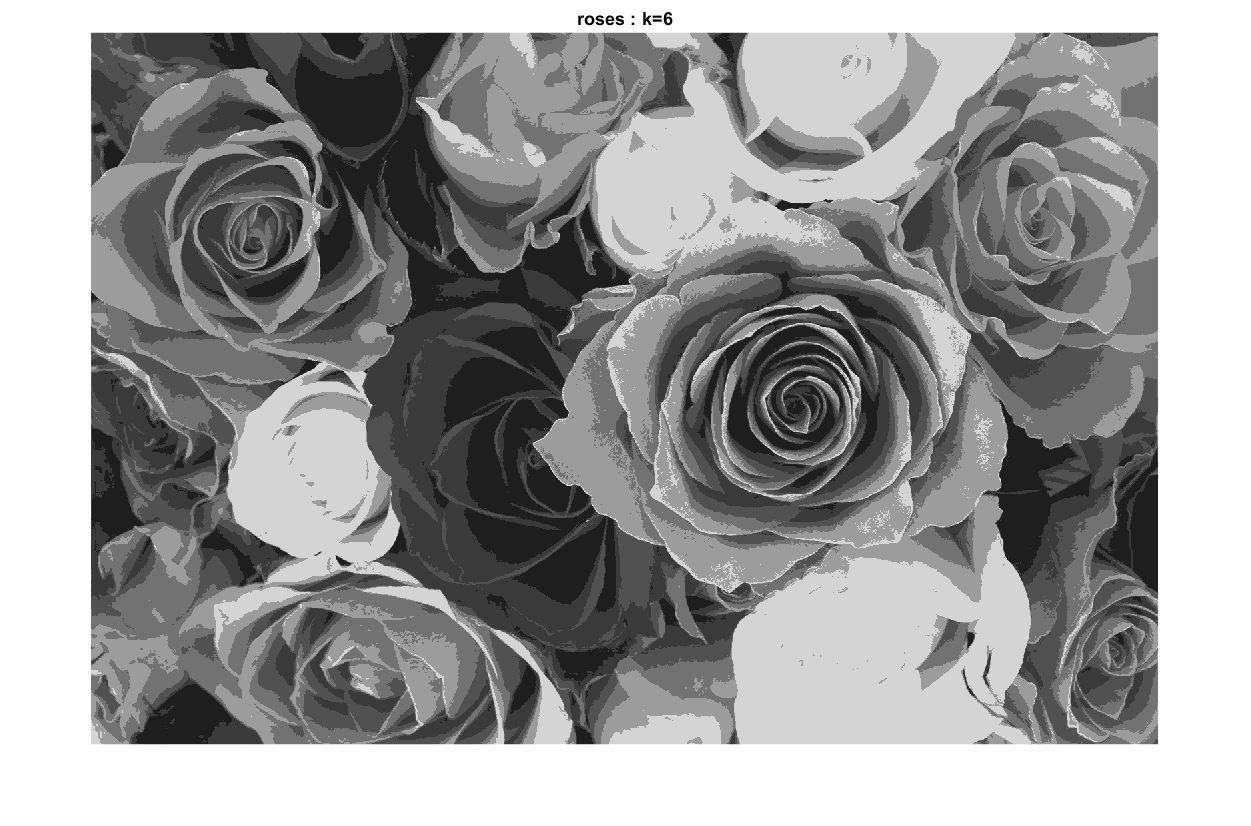
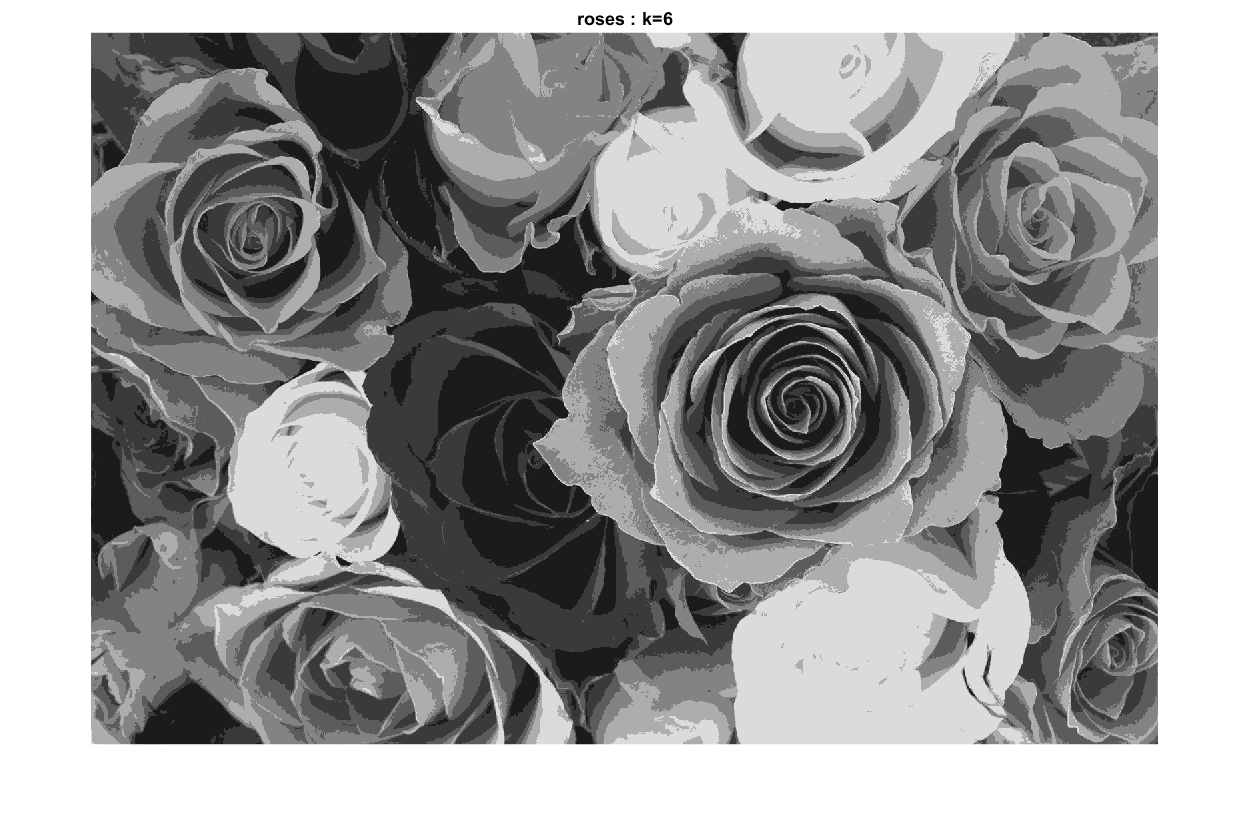
modified experiments for roses, exercise 4c

diff --git a/lab2/ex4/quantization.m b/lab2/ex4/quantization.m
@@ -1,0 +1,122 @@
+function [quantizedImage, iterations] = quantization(imageIn, k)
+%     we throw an error if the number of clusters is negative
+    assert(k > 0);
+
+%     as per the assignment, the output image will be the same as the input
+%     image if the input image has fewer than k gray levels, so we first
+%     compute the number of gray levels of the input image with the help of
+%     the imhist() function. It returns two values, the pixel count and the
+%     corresponding gray level (bin) in the image. Here, we input grayscale
+%     images, to the second output value will be 256, regardless of the
+%     image. Also, it is not used in our computations, so we we will not
+%     store it.
+    [pixelCounts,~] = imhist(imageIn);
+%     we count how many gray level values are present in the image
+    usedGrayLevels = nnz(pixelCounts);
+
+    if usedGrayLevels < double(k)
+        quantizedImage = imageIn;
+    else
+        [H, W] = size(imageIn);
+%         we initialize the means array with random uint8 gray scale values
+        means = uint8(randi([0, 255], 1, k));
+        condition = length(means) ~= length(unique(means));
+        while(condition)
+            means = uint8(randi([0, 255], 1, k));
+            condition = length(means) ~= length(unique(means));
+        end
+
+        initial_means = means;
+
+%         NOT USED ANYMORE
+% %         we initialize k empty cluster arrays. We will use direct indexing
+% %         to add elements to the arrays dynamically.
+% %         we dynamically create the k empty arrays. We need to be careful
+% %         with the names, as they have to be different than other variables
+% %         or functions.
+%         for cluster = 1:k
+%             eval(sprintf("cluster%d = []", cluster));
+%         end
+        
+%         matrix to store all means vectors, each corresponding to an
+%         iteration. At the end, we will make a column-wise average and
+%         have a final means array, which will combine information from all
+%         iterations. As we established the number of iterations to be
+%         equal to 5, we have a 5 x k means matrix.
+        means_matrix = zeros(100, k);
+        
+        iterations = 100;
+
+        for iteration = 1:100
+
+    %         for each iteration,    
+    %         we create a clusters matrix and initialize all elements with
+    %         zeros. Rows are the clusters and for each row, we have H * W
+    %         columns (the maximum number of potential pixels a cluster can
+    %         contain). It is not the most efficient, but still more efficient
+    %         than direct indexing (imitating dynamic allocation)
+            max_pixels_in_cluster = H * W;
+            clusters = zeros(k, max_pixels_in_cluster, 'uint8');
+    
+    
+    %         we keep track of the current positions (for each row/cluster of
+    %         the clusters matrix, we store the position where a newly-found
+    %         element is inserted). It is initialized with ones, as the first
+    %         index position in Matlab is 1
+            current_positions = ones(1, k);
+    
+    %         we create a matrix the same size as the input image, where each
+    %         pixel stores the cluster index
+            label_matrix = zeros(H, W);
+
+            if iteration ~= 1
+                means = means_matrix(iteration - 1, :);
+            end
+
+            for row = 1:H
+                for column = 1:W
+%                     fprintf("Iteration %d,  pixel (%d, %d)\n", iteration, row, column);
+                    
+                    
+                    [~, min_index] = min(abs(double(means) - double(imageIn(row, column))));
+                    for cluster = 1:k
+                        if min_index == cluster
+                            clusters(min_index, current_positions(min_index)) = imageIn(row, column);
+                            current_positions(min_index) = current_positions(min_index) + 1;
+                            label_matrix(row, column) = min_index;
+                        end
+                    end
+                end
+            end
+
+            for cluster = 1:k
+                nr_of_non_zero_elements = nnz(clusters(cluster,:));
+                if nr_of_non_zero_elements ~= 0
+                    means(cluster) =  sum(clusters(cluster,:)) / nnz(clusters(cluster,:));
+                else
+                    means(cluster) = means(cluster);
+                end
+            end
+
+            means_matrix(iteration, :) = means;
+            
+            if iteration > 1
+                if all(distance_cityblock(means_matrix(iteration, :), means_matrix(iteration - 1, :)) < 1)
+                    iterations = iteration;
+                    break;
+                end
+            end
+
+        end
+
+%         means = mean(means_matrix);
+        means = sum(means_matrix) ./ iterations;
+
+        for cluster = 1:k
+            label_matrix(label_matrix == cluster) = means(cluster);
+        end
+
+       quantizedImage = uint8(label_matrix);
+    end
+end
+
